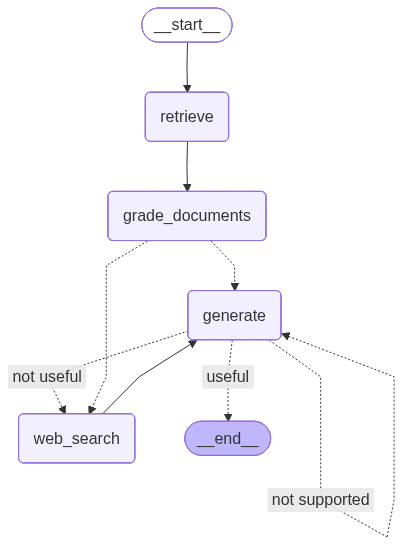
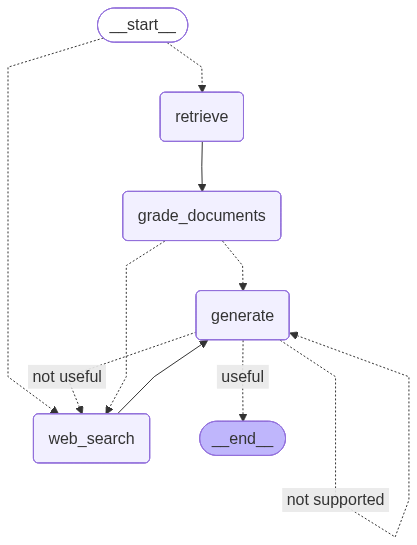
master | modifying the graph

diff --git a/graph/graph.py b/graph/graph.py
@@ -3,6 +3,7 @@ from langgraph.graph import END, StateGraph
 
 from graph.chains.answer_grader import answer_grader
 from graph.chains.hallunication_grader import hallucination_grader
+from graph.chains.router import RouteQuery, question_router
 from graph.consts import RETRIEVE, WEB_SEARCH, GRADE_DOCUMENTS, GENERATE
 from graph.nodes import retrieve, web_search, grade_documents, generate
 from graph.state import GraphState
@@ -51,6 +52,18 @@ def grade_generation_grounded_in_documents_and_question(state: GraphState) -> st
         print("---DECISION: GENERATION IS NOT GROUNDED IN DOCUMENTS, RETRY---")
         return 'not supported'
 
+def route_question(state: GraphState) -> str:
+    print('---ROUTE QUESTION---')
+    question = state["question"]
+    source: RouteQuery = question_router.invoke({"question": question})
+    if source.datasource == WEB_SEARCH:
+        print("---ROUTE QUESTION TO WEB SEARCH---")
+        return WEB_SEARCH
+    elif source.datasource == "vectorstore":
+        print("---ROUTE QUESTION TO RAG---")
+        return RETRIEVE
+
+
 
 workflow = StateGraph(GraphState)
 workflow.add_node(RETRIEVE, retrieve)
@@ -58,6 +71,13 @@ workflow.add_node(GRADE_DOCUMENTS, grade_documents)
 workflow.add_node(GENERATE, generate)
 workflow.add_node(WEB_SEARCH, web_search)
 
+workflow.set_conditional_entry_point(
+    route_question,
+    {
+        WEB_SEARCH: WEB_SEARCH,
+        RETRIEVE: RETRIEVE,
+    }
+)
 workflow.set_entry_point(RETRIEVE)
 workflow.add_edge(RETRIEVE, GRADE_DOCUMENTS)
 workflow.add_conditional_edges(

diff --git a/graph/chains/tests/test_chains.py b/graph/chains/tests/test_chains.py
@@ -64,7 +64,7 @@ def test_router_to_vectorstore() -> None:
     res: RouteQuery = question_router.invoke({"question": question})
     assert res.datasource == "vectorstore"
 
-def test_router_to_websearch() -> None:
+def test_router_to_web_search() -> None:
     question = "how to make pizza"
     res: RouteQuery = question_router.invoke({"question": question})
-    assert res.datasource == "websearch"
+    assert res.datasource == "web_search"

diff --git a/graph/chains/router.py b/graph/chains/router.py
@@ -9,7 +9,7 @@ load_dotenv()
 class RouteQuery(BaseModel):
     """Route a user query to the most relevant datasource."""
 
-    datasource: Literal["vectorstore", "websearch"] = Field(
+    datasource: Literal["vectorstore", "web_search"] = Field(
         ...,
         description="Given a user question choose to route it to web search or a vectorstore.",
     )

diff --git a/main.py b/main.py
@@ -6,4 +6,4 @@ load_dotenv()
 
 if __name__ == "__main__":
     print("Hello, World!")
-    print(app.invoke({'question': "What is agent memory?"}))
+    print(app.invoke({'question': "agent memory?"}))
